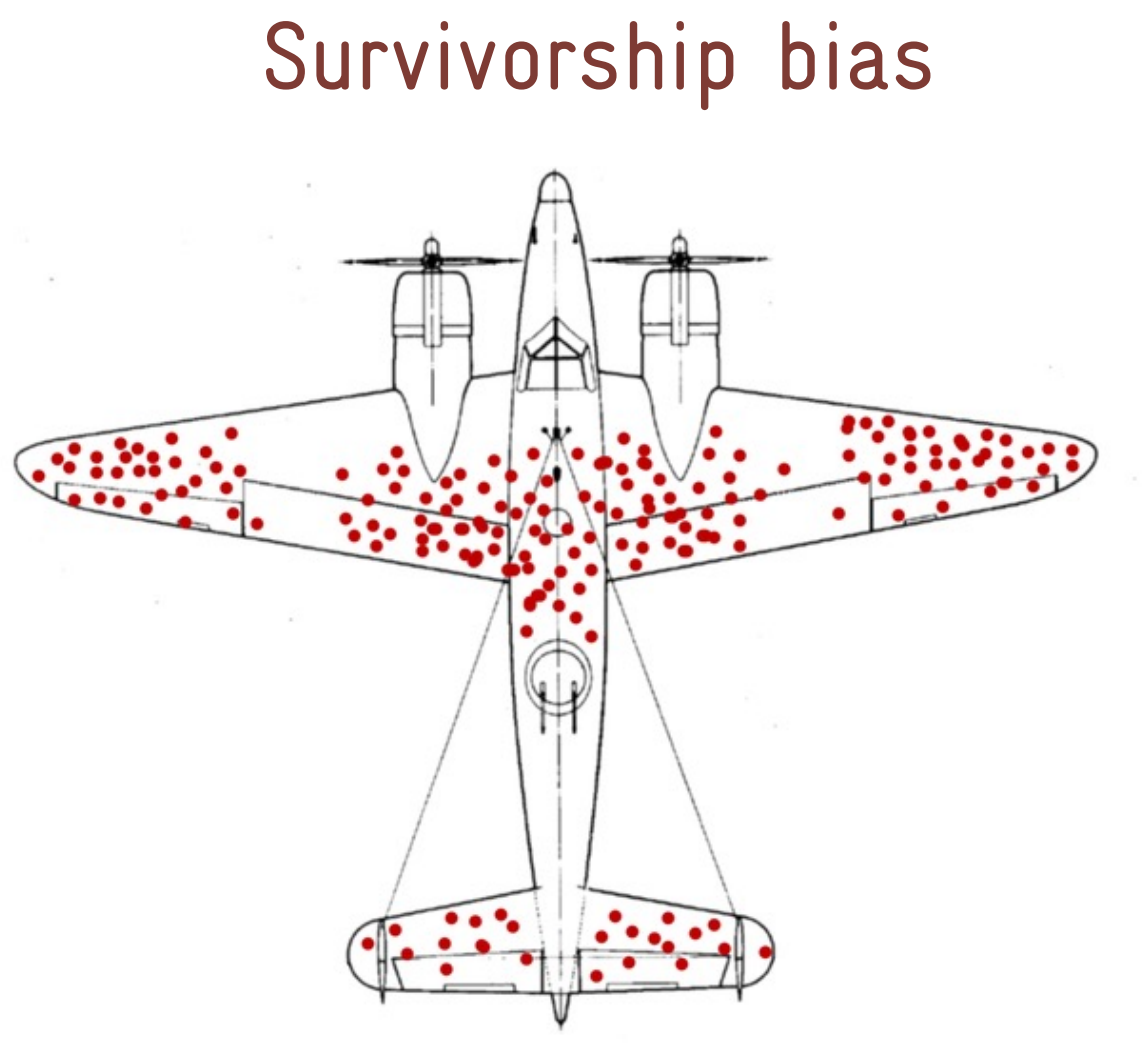
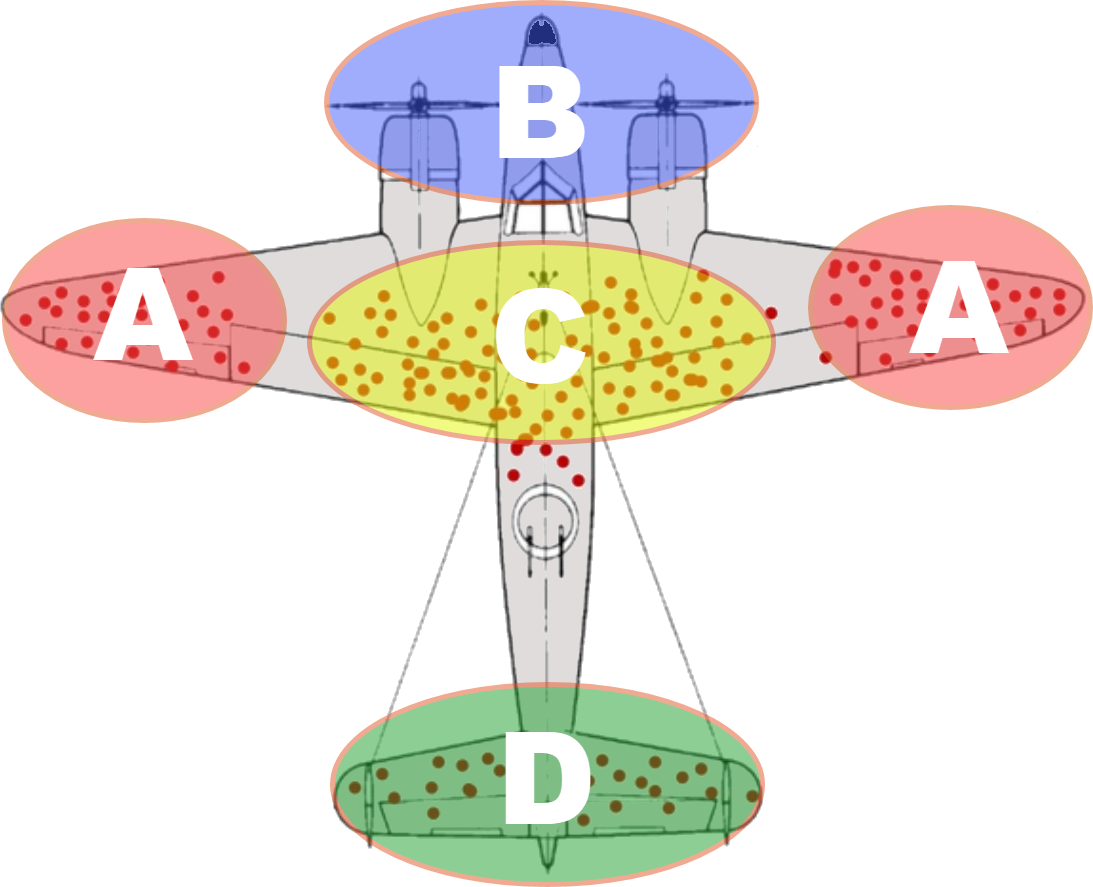
sup

diff --git a/AI.html b/AI.html
@@ -589,8 +589,8 @@ especially if it’s about the <span style="color: #005ABB"><strong>future</stro
 <section id="section-18" class="slide level2" data-background-image="/images/time_line/tl06.png" data-background-opacity="1" data-background-size="cover" data-visibility="uncounted">
 <h2></h2>
 </section>
-<section id="what-is-supervised-learning" class="slide level2">
-<h2>What is supervised Learning</h2>
+<section id="supervised-learning" class="slide level2">
+<h2>Supervised Learning</h2>
 <p>picture X -&gt; system -&gt; Y</p>
 <p>split training and test</p>
 </section>
@@ -647,6 +647,26 @@ especially if it’s about the <span style="color: #005ABB"><strong>future</stro
 <div class="r-stack">
 <p><img data-src="images/dt_u1.png" class="fragment absolute" style="top: 50px; left: 200px; "> <img data-src="images/dt_u2.png" class="fragment absolute" style="top: 50px; left: 200px; "> <img data-src="images/dt_u3.png" class="fragment absolute" style="top: 50px; left: 200px; "> <img data-src="images/dt_u4.png" class="fragment absolute" style="top: 50px; left: 200px; "></p>
 </div>
+</section>
+<section id="quiz-question" class="slide level2">
+<h2>Quiz Question</h2>
+<p><img data-src="images/survivorship_bias.png" class="absolute" style="top: 25px; left: 500px; "></p>
+<p><br>
+This is a plane returning from battle in WWII.<br>
+The red dots are bullet holes.<br>
+<br>
+<br>
+<br>
+<br>
+<br>
+Where would you reinforce this plane?<br>
+</p>
+<ul>
+<li>A red</li>
+<li>B blue</li>
+<li>C yellow</li>
+<li>D green</li>
+</ul>
 </section>
 <section id="section-23" class="slide level2" data-background-image="/images/time_line/tl13ml.png" data-background-opacity="1" data-background-size="cover" data-visibility="uncounted">
 <h2></h2>
